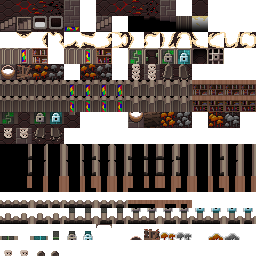
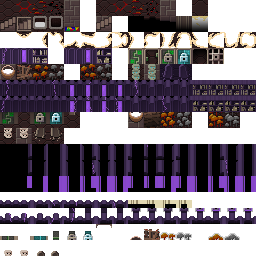
Versão 0.8.2: terrenos das regiões 2, 4 e 5, móveis dos Destroços, desfibrilador de campo e histórico v0.8.2

diff --git a/core/src/main/java/com/shatteredpixel/shatteredpixeldungeon/ui/changelist/HullChanges.java b/core/src/main/java/com/shatteredpixel/shatteredpixeldungeon/ui/changelist/HullChanges.java
@@ -46,6 +46,12 @@ import java.util.ArrayList;
 public class HullChanges {
 
 	public static void addAllChanges( ArrayList<ChangeInfo> changeInfos ){
+		add( changeInfos, "v0.8.2", new ChangeButton[]{
+				new ChangeButton(new ItemSprite(ItemSpriteSheet.ANKH), msg("v082_texts_title"), msg("v082_texts")),
+				new ChangeButton(Icons.get(Icons.DEPTH), msg("v082_terrain_title"), msg("v082_terrain")),
+				new ChangeButton(Icons.get(Icons.BADGES), msg("v082_badges_title"), msg("v082_badges")),
+				new ChangeButton(Icons.get(Icons.GOLD), msg("v082_support_title"), msg("v082_support")),
+		});
 		add( changeInfos, "v0.8.1", new ChangeButton[]{
 				new ChangeButton(Icons.get(Icons.ALCHEMY), msg("v081_names_title"), msg("v081_names")),
 				new ChangeButton(new ItemSprite(ItemSpriteSheet.CURSE_INFUSE), msg("v081_corrupt_title"), msg("v081_corrupt")),

diff --git a/core/src/main/java/com/shatteredpixel/shatteredpixeldungeon/levels/PrisonLevel.java b/core/src/main/java/com/shatteredpixel/shatteredpixeldungeon/levels/PrisonLevel.java
@@ -176,6 +176,9 @@ public class PrisonLevel extends RegularLevel {
 	@Override
 	public String tileName( int tile ) {
 		switch (tile) {
+			//Shattered Hull: a estante de cada região tem nome próprio
+			case Terrain.BOOKSHELF:
+				return Messages.get(PrisonLevel.class, "bookshelf_name");
 			case Terrain.WATER:
 				return Messages.get(PrisonLevel.class, "water_name");
 			case Terrain.REGION_DECO:

diff --git a/core/src/main/java/com/shatteredpixel/shatteredpixeldungeon/levels/SewerLevel.java b/core/src/main/java/com/shatteredpixel/shatteredpixeldungeon/levels/SewerLevel.java
@@ -218,6 +218,9 @@ public class SewerLevel extends RegularLevel {
 	@Override
 	public String tileName( int tile ) {
 		switch (tile) {
+			//Shattered Hull: a estante de cada região tem nome próprio
+			case Terrain.BOOKSHELF:
+				return Messages.get(SewerLevel.class, "bookshelf_name");
 			case Terrain.WATER:
 				return Messages.get(SewerLevel.class, "water_name");
 			case Terrain.REGION_DECO:

diff --git a/core/src/main/java/com/shatteredpixel/shatteredpixeldungeon/levels/CityLevel.java b/core/src/main/java/com/shatteredpixel/shatteredpixeldungeon/levels/CityLevel.java
@@ -196,6 +196,9 @@ public class CityLevel extends RegularLevel {
 	@Override
 	public String tileName( int tile ) {
 		switch (tile) {
+			//Shattered Hull: a estante de cada região tem nome próprio
+			case Terrain.BOOKSHELF:
+				return Messages.get(CityLevel.class, "bookshelf_name");
 			case Terrain.WATER:
 				return Messages.get(CityLevel.class, "water_name");
 			case Terrain.HIGH_GRASS:

diff --git a/core/src/main/java/com/shatteredpixel/shatteredpixeldungeon/levels/HallsLevel.java b/core/src/main/java/com/shatteredpixel/shatteredpixeldungeon/levels/HallsLevel.java
@@ -151,6 +151,9 @@ public class HallsLevel extends RegularLevel {
 	@Override
 	public String tileName( int tile ) {
 		switch (tile) {
+			//Shattered Hull: a estante de cada região tem nome próprio
+			case Terrain.BOOKSHELF:
+				return Messages.get(HallsLevel.class, "bookshelf_name");
 			case Terrain.WATER:
 				return Messages.get(HallsLevel.class, "water_name");
 			case Terrain.GRASS:
